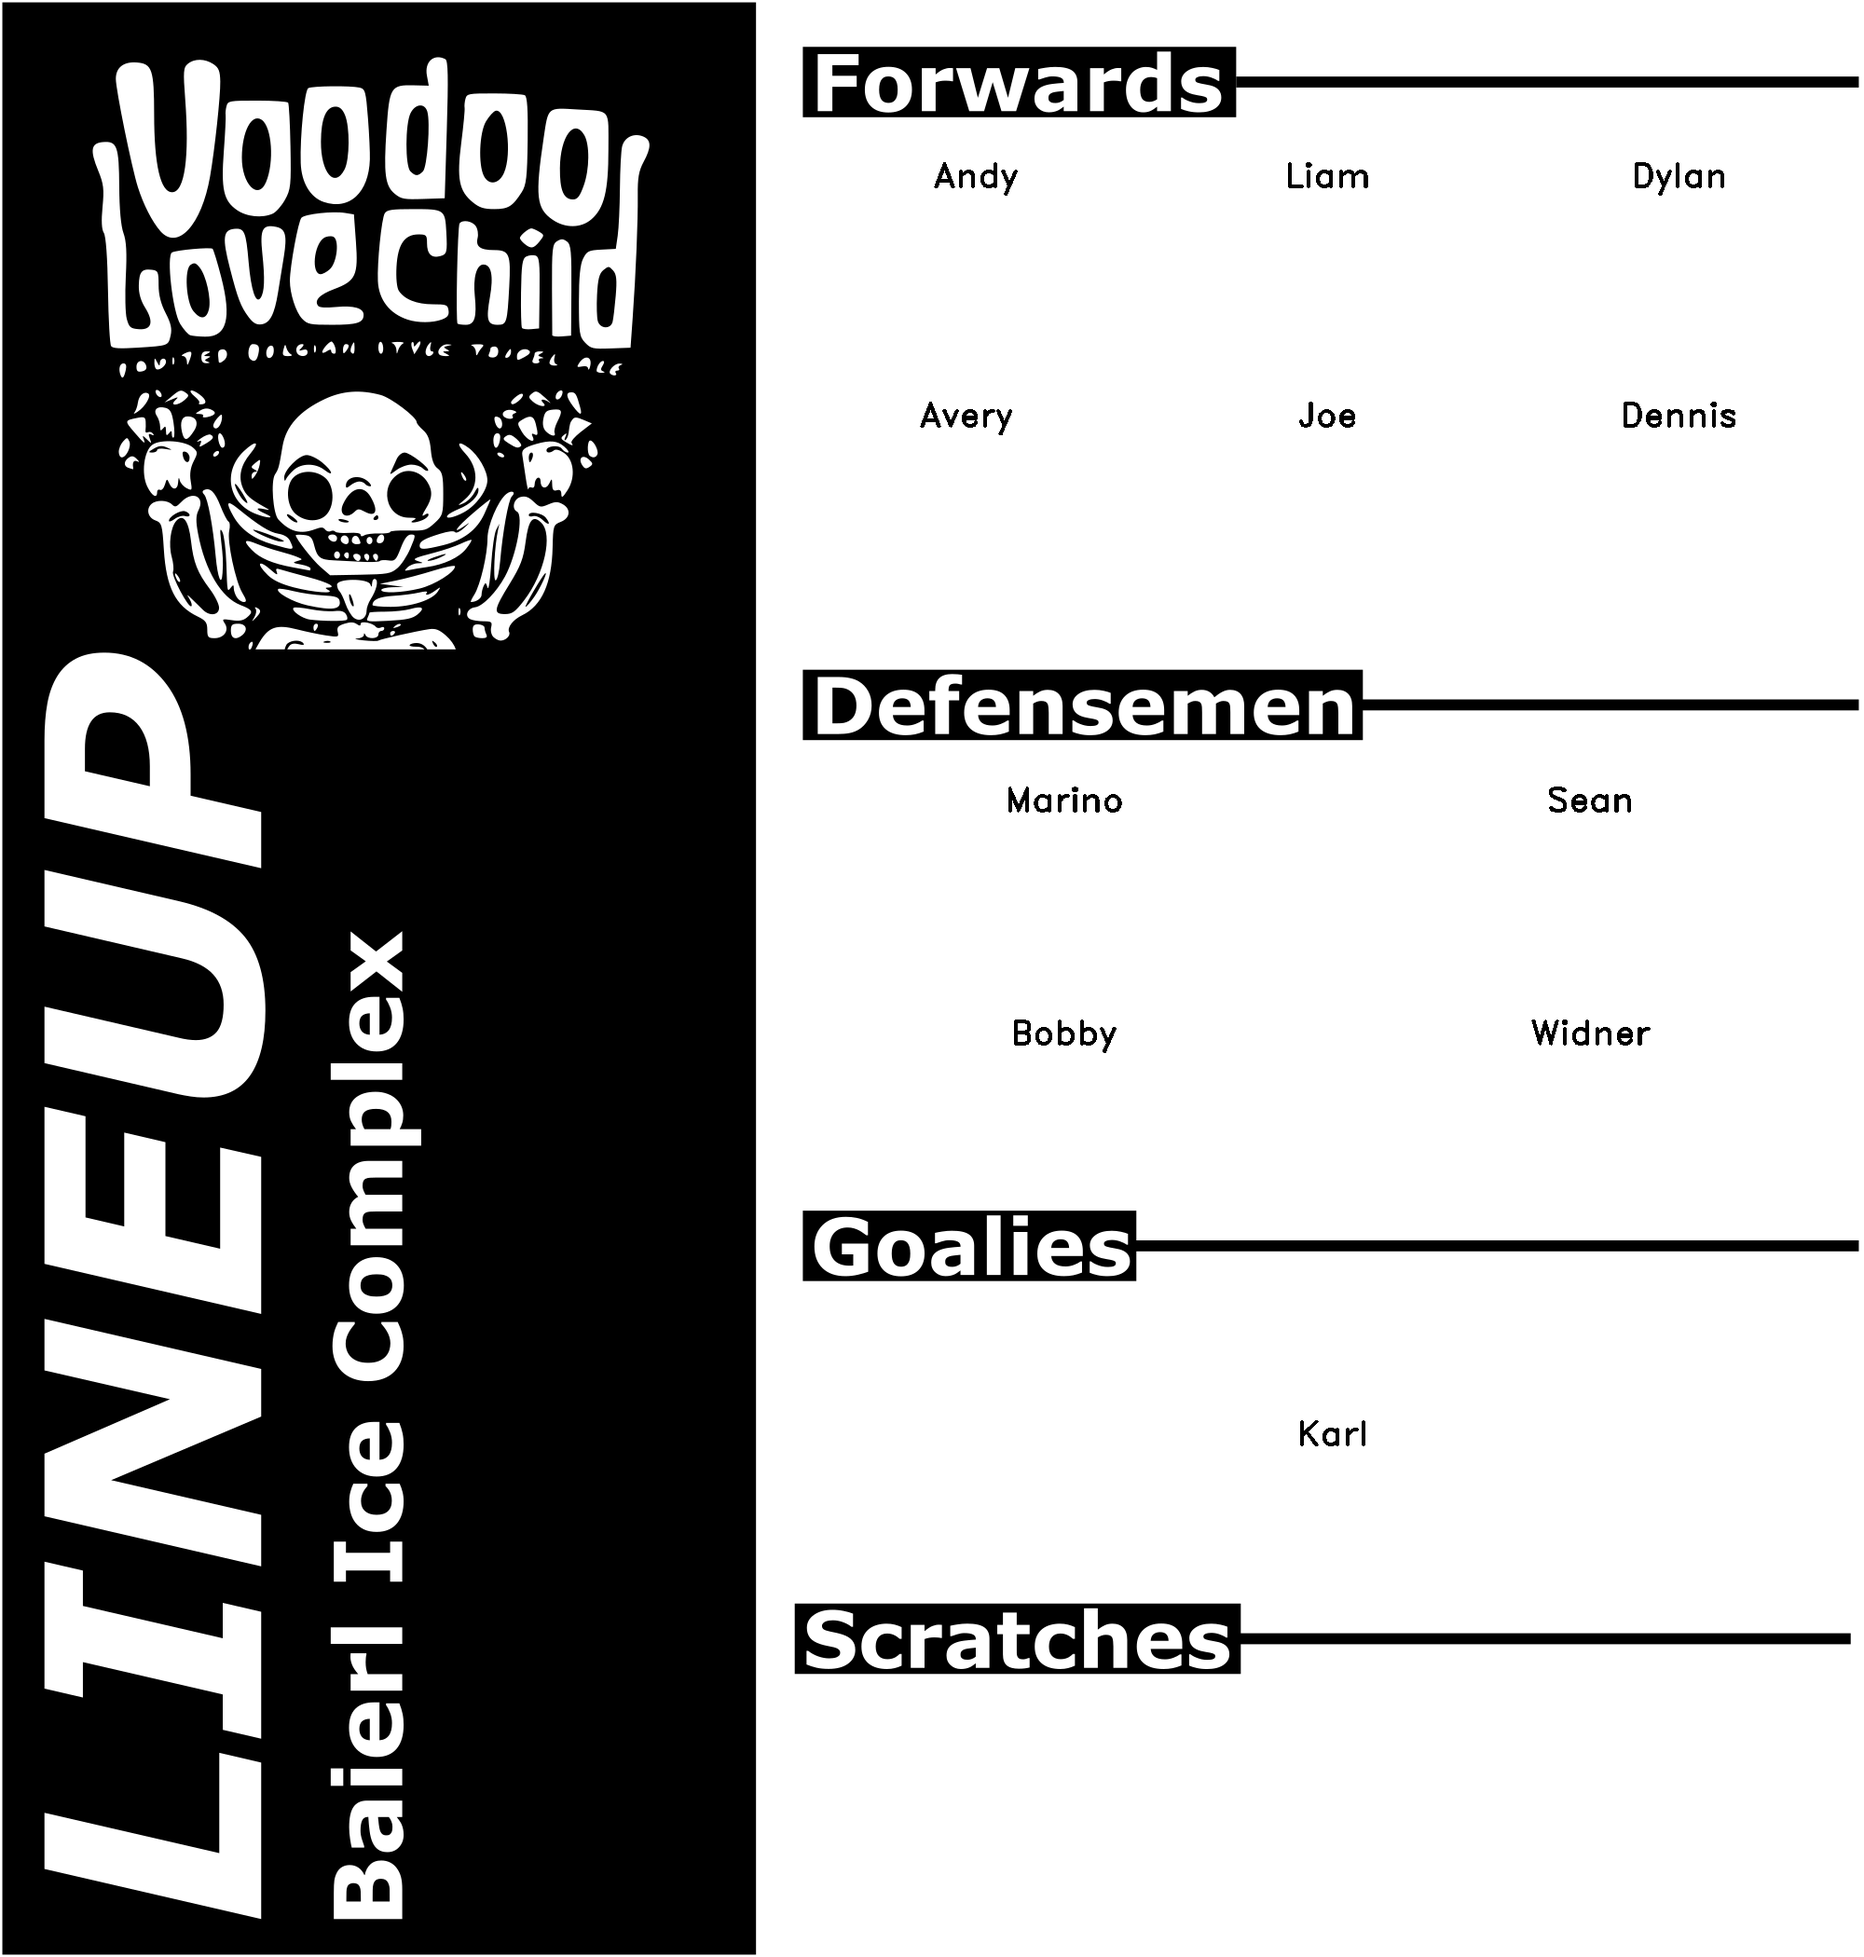
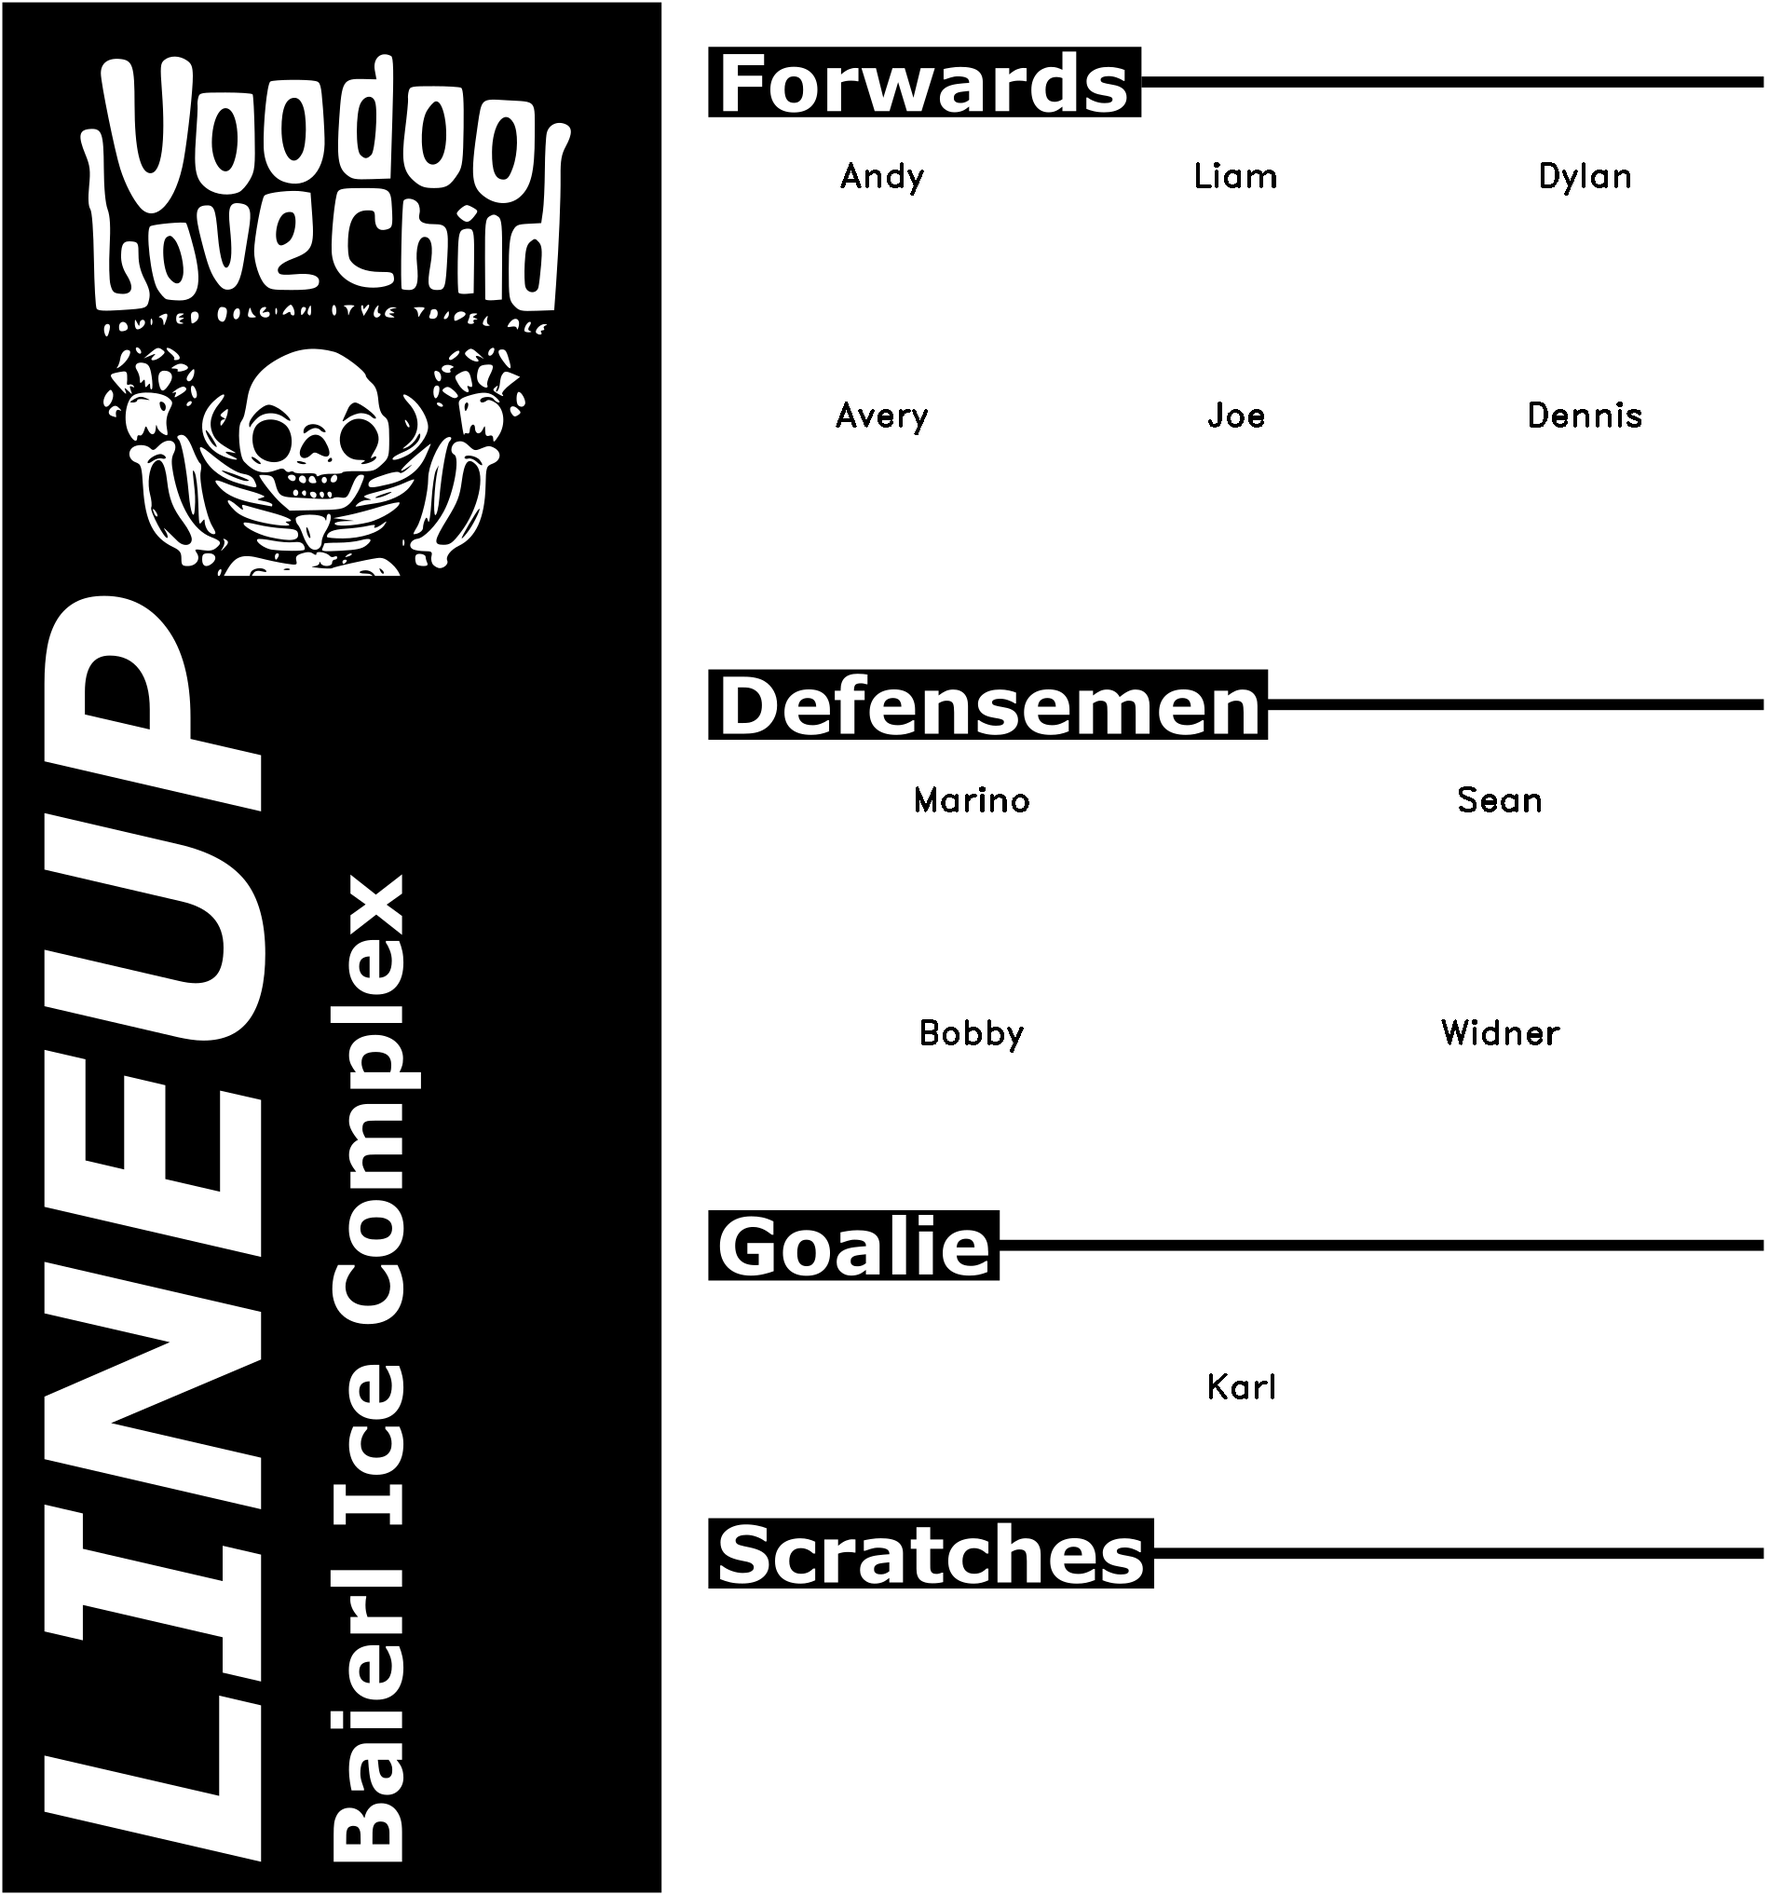
Probably should not be to master, update to imageGenerator.py

diff --git a/imageGenerator.py b/imageGenerator.py
@@ -10,9 +10,31 @@ Font_Weight = 2
 Font_Color = (0, 0, 0)
 Font_Type = cv2.FONT_HERSHEY_DUPLEX
 
-Forwards = Get_Cell_Range(FORWARDS_LINEUP_RANGE)
+Forwards = [[name.split()[0] for name in sublist] for sublist in Get_Cell_Range(FORWARDS_LINEUP_RANGE)]
+
+if not Forwards:
+    Forwards = [
+        ['## - Player #1', '## - Player #2', '## - Player #3'],
+        ['## - Player #1', '## - Player #2', '## - Player #3'],
+        ['## - Player #1', '## - Player #2', '## - Player #3'],
+        ['## - Player #1', '## - Player #2', '## - Player #3']
+    ]
+
 Defense = [[item for item in sublist if item.strip()] for sublist in Get_Cell_Range(DEFENSE_LINEUP_RANGE)]
-Goalie = Get_Cell_Range(GOALIE_LINEUP_RANGE)
+Defense = [[name.split()[0] for name in sublist] for sublist in Defense]
+
+
+if not Defense:
+    Defense = [
+        ['## - Player #1', '## - Player #2'],
+        ['## - Player #1', '## - Player #2'],
+        ['## - Player #1', '## - Player #2']
+    ]
+
+Goalie = [[name.split()[0] if name else '' for name in sublist] for sublist in Get_Cell_Range(GOALIE_LINEUP_RANGE)]
+
+if not Goalie:
+    Goalie = [[' ', '## - Goalie #1', ' ']]
 
 Forward_Y_Spacing = int(515/len(Forwards))
 Defense_Y_Spacing = int(500/len(Defense))
@@ -22,30 +44,30 @@ for i, Line in enumerate(Forwards):
     C_Width = cv2.getTextSize(Line[1], Font_Type, fontScale=Font_Size, thickness=Font_Weight)
     RW_Width = cv2.getTextSize(Line[2], Font_Type, fontScale=Font_Size, thickness=Font_Weight)
 
-    Lineup_Image_W_Text = cv2.putText(
+    cv2.putText(
         Base_Lineup_Image,
         Line[0],
-        (int(860 + (375 - LW_Width[0][0])/2), 200 + i * Forward_Y_Spacing),
+        (int(760 + (375 - LW_Width[0][0])/2), 200 + i * Forward_Y_Spacing),
         fontFace=Font_Type,
         fontScale=Font_Size,
         color=Font_Color,
         thickness=Font_Weight
     )
 
-    Lineup_Image_W_Text = cv2.putText(
+    cv2.putText(
         Base_Lineup_Image,
         Line[1],
-        (int(1425 - C_Width[0][0]/2), 200 + i * Forward_Y_Spacing),
+        (int(1327.5 - C_Width[0][0]/2), 200 + i * Forward_Y_Spacing),
         fontFace=Font_Type,
         fontScale=Font_Size,
         color=Font_Color,
         thickness=Font_Weight
     )
 
-    Lineup_Image_W_Text = cv2.putText(
+    cv2.putText(
         Base_Lineup_Image,
         Line[2],
-        (int(1615 + (375 - RW_Width[0][0])/2), 200 + i * Forward_Y_Spacing),
+        (int(1515 + (375 - RW_Width[0][0])/2), 200 + i * Forward_Y_Spacing),
         fontFace=Font_Type,
         fontScale=Font_Size,
         color=Font_Color,
@@ -56,20 +78,20 @@ for i, Line in enumerate(Defense):
     LD_Width = cv2.getTextSize(Line[0], Font_Type, fontScale=Font_Size, thickness=Font_Weight)
     RD_Width = cv2.getTextSize(Line[1], Font_Type, fontScale=Font_Size, thickness=Font_Weight)
 
-    Lineup_Image_W_Text = cv2.putText(
+    cv2.putText(
         Base_Lineup_Image,
         Line[0],
-        (int(860 + (565 - LD_Width[0][0]) / 2), 870 + i * Defense_Y_Spacing),
+        (int(760 + (567.5 - LD_Width[0][0]) / 2), 870 + i * Defense_Y_Spacing),
         fontFace=Font_Type,
         fontScale=Font_Size,
         color=Font_Color,
         thickness=Font_Weight
     )
 
-    Lineup_Image_W_Text = cv2.putText(
+    cv2.putText(
         Base_Lineup_Image,
         Line[1],
-        (int(1425 + (565 - RD_Width[0][0]) / 2), 870 + i * Defense_Y_Spacing),
+        (int(1327.5 + (567.5 - RD_Width[0][0]) / 2), 870 + i * Defense_Y_Spacing),
         fontFace=Font_Type,
         fontScale=Font_Size,
         color=Font_Color,
@@ -79,7 +101,7 @@ for i, Line in enumerate(Defense):
 Lineup_Image_W_Text = cv2.putText(
         Base_Lineup_Image,
         Goalie[0][1],
-        (int(1425 - C_Width[0][0]/2), 1550),
+        (int(1327.5 - C_Width[0][0]/2), 1500),
         fontFace=Font_Type,
         fontScale=Font_Size,
         color=Font_Color,
